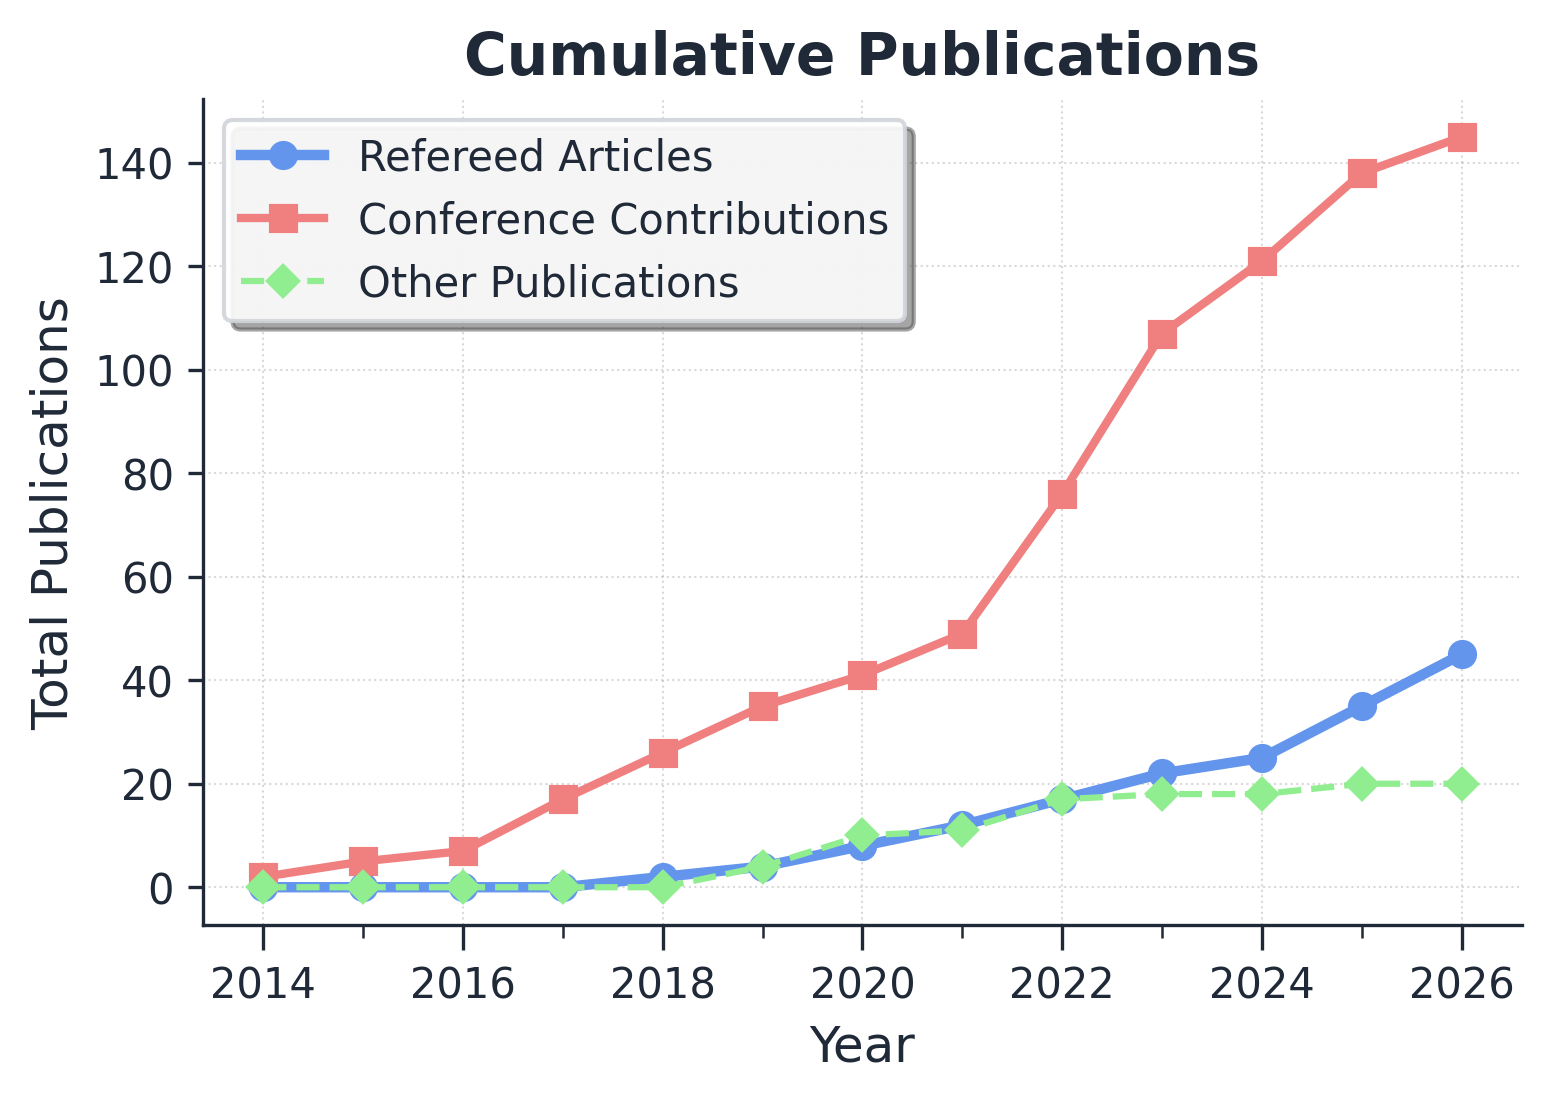
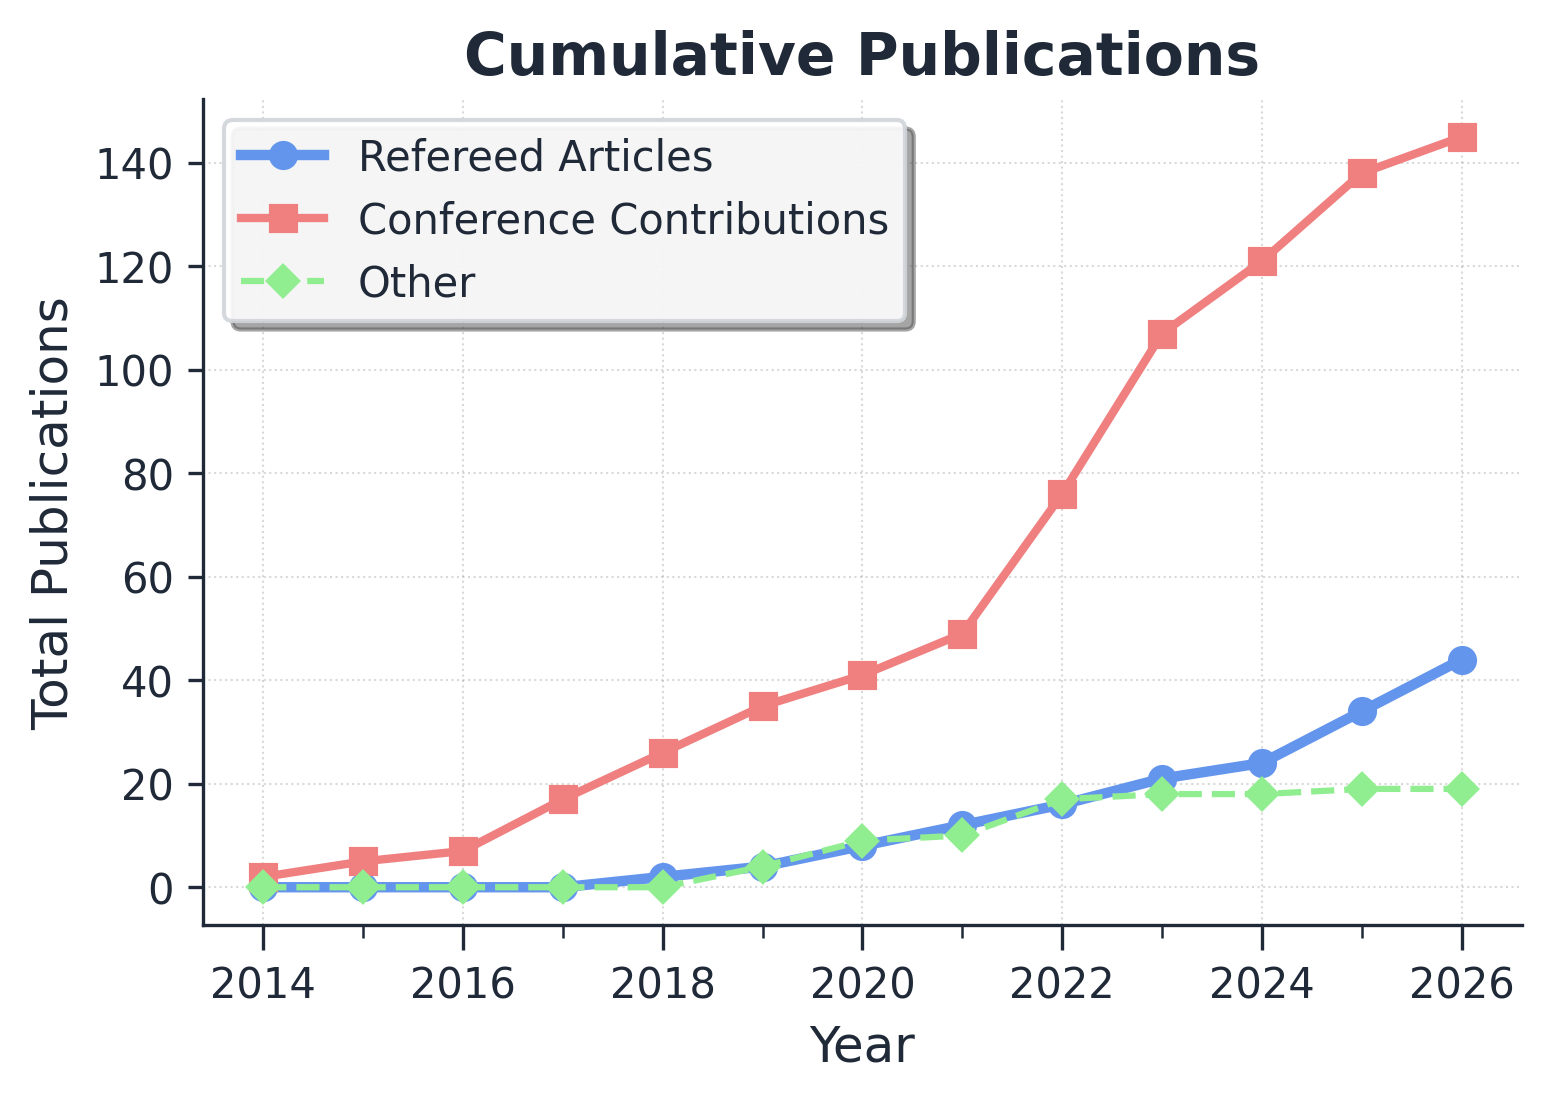
fix(timeline): band publications by category membership
Refereed and Other bands now use category_members() over
publications-categories.json, matching the category pages: the RNAAS
note leaves Refereed (44) and dropped preprints leave the plot. The
renamed Other band keeps thesis, datasets, and software.

Changed region(s): [[0.6499, 0.5867, 0.9594, 0.7411], [0.2476, 0.247, 0.4952, 0.2779], [0.5261, 0.7411, 0.6499, 0.772]]

diff --git a/scripts/generate_publications_timeline.py b/scripts/generate_publications_timeline.py
@@ -21,7 +21,7 @@ import json
 import matplotlib.pyplot as plt
 import pandas as pd
 from pathlib import Path
-from utils import get_public_data_dir, get_public_plots_dir, get_relative_path
+from utils import get_public_data_dir, get_public_plots_dir, get_relative_path, category_members, find_category
 from plot_config import COLORS, FIGURE, FONTS, LINES, GRID, LEGEND, LAYOUT, OUTPUT, THEMES, get_theme_config, get_data_colors
 
 # === SECTION 1: Load Publications Data ===
@@ -64,33 +64,48 @@ else:
     print(f"   No invited presentations file found, using ADS only")
 
 # === SECTION 2: Data Processing ===
-# Convert to DataFrame
+# Assign each publication to a plot band. Refereed and Other follow the same
+# membership rule as the website's category pages (publications-categories.json),
+# so the RNAAS note and dropped preprints land where the pages put them. The
+# Other band also keeps the thesis, datasets, and software, which have their
+# own pages but would otherwise vanish from a plot of total output.
+categories_data = json.loads((public_data_dir / "publications-categories.json").read_text())
+refereed_ids = {id(p) for p in category_members(ads_publications, find_category(categories_data, "refereed"))}
+other_ids = {id(p) for p in category_members(ads_publications, find_category(categories_data, "other-publications"))}
+other_extra_types = {"phdthesis", "dataset", "software"}
+conference_types = {"abstract", "inproceedings"}
+# Types that may legitimately fall outside every band: an eprint excluded
+# because a published version exists. Anything else unplaced is a gap.
+expected_unplaced_types = {"eprint"}
+
+
+def plot_band(pub):
+    """Return the plot band for a publication, or None if it is not plotted."""
+    if id(pub) in refereed_ids:
+        return "Refereed Articles"
+    if id(pub) in other_ids or pub.get("publication_type") in other_extra_types:
+        return "Other"
+    if pub.get("publication_type") in conference_types:
+        return "Conference Contributions"
+    return None
+
+
+bands = [plot_band(p) for p in publications]
+unexpected = sorted({
+    p.get("publication_type") for p, band in zip(publications, bands)
+    if band is None and p.get("publication_type") not in expected_unplaced_types
+})
+if unexpected:
+    print(f"⚠  Warning: publications with unplaced types dropped from the plot: {unexpected}")
+
 df = pd.DataFrame(publications)
+df["category"] = bands
 
 # Extract year from "YYYY-MM-DD" format
 df['year'] = df['year'].str.split('-').str[0]
 df = df[df['year'] != ''].copy()  # Filter out empty years
 df['year'] = df['year'].astype(int)
-
-# Define category mappings
-category_map = {
-    'article': 'Refereed Articles',
-    'abstract': 'Conference Contributions',
-    'inproceedings': 'Conference Contributions',
-    'techreport': 'Other Publications',
-    'eprint': 'Other Publications',
-    'dataset': 'Other Publications',
-    'phdthesis': 'Other Publications',
-    'software': 'Other Publications',
-}
-
-df['category'] = df['publication_type'].map(category_map)
-
-# Handle unmapped types
-if df['category'].isna().any():
-    unmapped = df[df['category'].isna()]['publication_type'].unique()
-    print(f"⚠  Warning: Unmapped publication types found: {unmapped}")
-    df = df[df['category'].notna()]  # Drop unmapped for now
+df = df[df['category'].notna()]
 
 # Count publications by year and category
 counts = df.groupby(['year', 'category']).size().unstack(fill_value=0)
@@ -103,23 +118,23 @@ counts = counts.reindex(year_range, fill_value=0)
 all_years = counts.index.tolist()
 refereed = counts.get('Refereed Articles', pd.Series(0, index=counts.index)).tolist()
 conferences = counts.get('Conference Contributions', pd.Series(0, index=counts.index)).tolist()
-other = counts.get('Other Publications', pd.Series(0, index=counts.index)).tolist()
+other = counts.get('Other', pd.Series(0, index=counts.index)).tolist()
 
 # Compute cumulative sums for plotting (pandas native)
 cum_refereed = counts.get('Refereed Articles', pd.Series(0, index=counts.index)).cumsum().tolist()
 cum_conferences = counts.get('Conference Contributions', pd.Series(0, index=counts.index)).cumsum().tolist()
-cum_other = counts.get('Other Publications', pd.Series(0, index=counts.index)).cumsum().tolist()
+cum_other = counts.get('Other', pd.Series(0, index=counts.index)).cumsum().tolist()
 
 print("\n📊 Publication counts by year:")
 print(counts)
 print(f"\n✓ Total publications: {len(df)}")
 print(f"  • Refereed Articles: {sum(refereed)}")
 print(f"  • Conference Contributions: {sum(conferences)}")
-print(f"  • Other Publications: {sum(other)}")
+print(f"  • Other: {sum(other)}")
 print(f"\n📈 Cumulative totals (final year):")
 print(f"  • Refereed Articles: {cum_refereed[-1]}")
 print(f"  • Conference Contributions: {cum_conferences[-1]}")
-print(f"  • Other Publications: {cum_other[-1]}")
+print(f"  • Other: {cum_other[-1]}")
 
 # === SECTION 3: Save JSON Data ===
 output_filename = "publications_timeline.json"
@@ -165,7 +180,7 @@ def generate_plot(theme_name='light'):
             **LINES['conference'])
 
     ax.plot(all_years, cum_other,
-            label='Other Publications',
+            label='Other',
             color=data_colors['other'],
             **LINES['other'])
 
